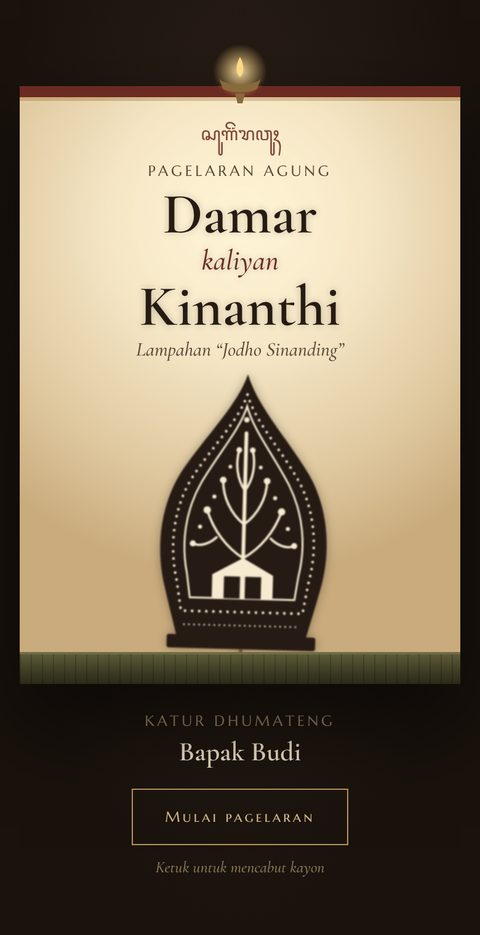
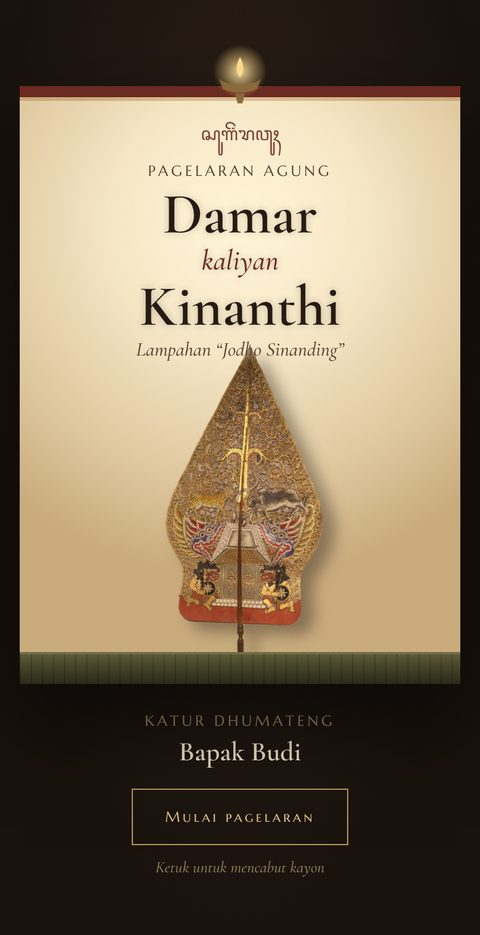
Pagelaran: foto wayang kulit asli sebagai gambar bawaan
Arjuna dan Sumbadra dari koleksi Tropenmuseum (CC BY-SA 3.0) serta
gunungan Jawa (CC0) dari Wikimedia Commons, latarnya dibuang menjadi
transparan. Baris kredit foto ditampilkan di bawah undangan; sumber dan
lisensi dicatat di docs/klasik/aset/KREDIT.md.

Claude-Session: https://claude.ai/code/session_012Jo5cw2anG96AVQ1DAKCxL

Changed region(s): [[0.3125, 0.3722, 0.7188, 0.7134]]

diff --git a/docs/klasik/11-wayang/index.html b/docs/klasik/11-wayang/index.html
@@ -32,8 +32,13 @@ window.UNDANGAN = {
     petunjuk: 'Ketuk untuk mencabut kayon',
   },
   sampul: { foto: '' },
-  // Gambar wayang asli (PNG berlatar transparan paling bagus). Kosong = memakai gambar bawaan.
-  wayang: { pria: '', putri: '', kayon: '' },
+  // Foto wayang asli (PNG/WebP berlatar transparan). Kosongkan untuk memakai gambar garis bawaan.
+  wayang: {
+    pria: '../aset/wayang-arjuna.webp',
+    putri: '../aset/wayang-sumbadra.webp',
+    kayon: '../aset/wayang-gunungan.webp',
+    kredit: 'Foto wayang Arjuna & Sumbadra: Tropenmuseum, CC BY-SA 3.0',
+  },
   narasi: {
     jawa: 'Kocap kacarita, ing tlatah Surakarta wonten satriya bagus Damar lan putri ayu Kinanthi. Sinawang saking tebih, katingal kados sekar kaliyan kumbang ingkang tansah manunggal.',
     terjemah: 'Alkisah, di tanah Surakarta hiduplah seorang ksatria bernama Damar dan seorang putri bernama Kinanthi. Dari kejauhan, keduanya bagai bunga dan kumbang yang tak terpisahkan.',
@@ -224,7 +229,7 @@ body { background: var(--panggung); color: var(--bayang); font: 500 17px/1.6 var
 .wayang .tk { fill: none; stroke: currentColor; stroke-linecap: round; stroke-linejoin: round; }
 .wayang .gagang { fill: none; stroke: #6b5038; stroke-width: 1.6; stroke-linecap: round; }
 .pemisah { display: grid; justify-items: center; margin: 0 auto 10px; }
-.pemisah .slot { width: 30px; height: 43px; }
+.pemisah .slot { width: 30px; height: 58px; }
 .pemisah svg { width: 100%; height: 100%; }
 /* Slot gambar wayang: gambar asli bila diisi, gambar bawaan bila kosong */
 .slot { position: relative; background: no-repeat center bottom / contain; }
@@ -252,8 +257,8 @@ html.is-opening .sampul { opacity: 0; visibility: hidden; }
 .nama-sampul { margin: 6px 0 2px; font: 600 clamp(40px, 12vw, 50px)/.95 var(--f-judul); color: var(--bayang); filter: blur(.3px); text-shadow: 0 0 6px rgba(38,27,20,.25); text-wrap: balance; }
 .nama-sampul i { display: block; font: italic 500 .5em/1.3 var(--f-judul); color: var(--marun); }
 .lakon { font: italic 500 16px/1.3 var(--f-judul); color: var(--bayang-2); text-shadow: 0 0 6px var(--kelir), 0 0 12px var(--kelir); }
-.kayon-sampul { position: relative; z-index: 1; align-self: end; justify-self: center; width: min(46%, 172px); margin-bottom: -6px; filter: blur(.6px) drop-shadow(0 0 4px rgba(38,27,20,.35)); transform-origin: 50% 100%; animation: goyang 5s ease-in-out infinite; }
-.kayon-sampul .slot { position: relative; aspect-ratio: 120 / 172; }
+.kayon-sampul { position: relative; z-index: 1; align-self: end; justify-self: center; width: min(36%, 140px); margin-bottom: -4px; filter: blur(.6px) drop-shadow(0 0 4px rgba(38,27,20,.35)); transform-origin: 50% 100%; animation: goyang 5s ease-in-out infinite; }
+.kayon-sampul .slot { position: relative; aspect-ratio: 120 / 237; }
 .kayon-sampul svg { display: block; width: 100%; height: 100%; }
 .kayon-sampul:has(.slot:not([data-empty])) { filter: none; }
 @keyframes goyang { 0%, 100% { transform: rotate(-1.6deg); } 50% { transform: rotate(1.6deg); } }
@@ -292,16 +297,17 @@ html:not(.mode-edit) .terang::before { animation: kedip 4.4s steps(1) infinite; 
 .jejer .nama-besar { margin: 8px 0 0; text-align: center; font: 600 clamp(44px, 13vw, 56px)/.95 var(--f-judul); text-wrap: balance; }
 .jejer .nama-besar i { display: block; margin: 4px 0; font: italic 500 26px/1 var(--f-judul); color: var(--marun); }
 .jejer .tgl-jawa { margin-top: 10px; text-align: center; color: var(--bayang-2); }
-.adegan { position: relative; display: grid; grid-template-columns: repeat(2, minmax(0, 1fr)); align-items: end; margin: 18px -22px 0; padding: 0 6%; height: 300px; }
-.adegan .wayang { position: relative; width: 100%; height: 300px; cursor: pointer; }
+.adegan { position: relative; margin: 18px -22px 0; height: 300px; }
+.adegan .wayang { position: absolute; bottom: 0; height: 100%; cursor: pointer; }
+.adegan .pria { left: -3%; width: 64%; }
+.adegan .putri { right: -3%; width: 66%; z-index: 1; }
 .adegan .wayang[data-empty] { filter: drop-shadow(0 0 3px rgba(38,27,20,.4)); }
 .adegan .wayang svg { width: 100%; height: 100%; overflow: visible; }
-.adegan .wayang:not([data-empty]) { background-size: auto 100%; transform-origin: 50% 100%; }
+.adegan .wayang:not([data-empty]) { transform-origin: 50% 100%; }
 html:not(.mode-edit) .adegan .wayang:not([data-empty]).in { animation: goyang 6s ease-in-out infinite; }
 html:not(.mode-edit) .adegan .wayang:not([data-empty]).in:last-child { animation-delay: -3s; }
 .adegan .wayang:not([data-empty]).sembah { animation: sembah-foto .9s ease-in-out !important; }
 @keyframes sembah-foto { 30% { transform: translateY(-10px) rotate(-3deg); } 60% { transform: translateY(-4px) rotate(2deg); } }
-.adegan .wayang:first-child { justify-self: end; }
 .adegan .goyang { transform-box: view-box; transform-origin: 56px 270px; }
 html:not(.mode-edit) .adegan .in .goyang { animation: goyang 6s ease-in-out infinite; }
 html:not(.mode-edit) .adegan .in:last-child .goyang { animation-delay: -3s; }
@@ -450,14 +456,15 @@ html.mode-edit .ketuk { display: none; }
 .penutup .judul { margin-top: 0; }
 .penutup .tanda { margin: 16px 0 0; font: 600 34px/1.1 var(--f-judul); }
 .penutup .keluarga { margin: 6px 0 0; color: var(--bayang-2); font-size: 15px; }
-.tancep { position: relative; height: 230px; margin: 26px -22px 0; display: grid; justify-items: center; align-items: end; overflow: hidden; }
-.tancep .kayon-tancep { position: relative; z-index: 1; width: 150px; aspect-ratio: 120 / 172; margin-bottom: 18px; transform-origin: 50% 100%; }
+.tancep { position: relative; height: 330px; margin: 26px -22px 0; display: grid; justify-items: center; align-items: end; overflow: hidden; }
+.tancep .kayon-tancep { position: relative; z-index: 1; width: 150px; aspect-ratio: 120 / 237; margin-bottom: 14px; transform-origin: 50% 100%; }
 .tancep .kayon-tancep[data-empty] { filter: blur(.5px) drop-shadow(0 0 4px rgba(38,27,20,.35)); }
 .tancep .kayon-tancep svg { width: 100%; height: 100%; }
 .rv .tancep .kayon-tancep[data-reveal]:not(.in) { transform: translateY(70%) rotateY(180deg); }
 .tancep .kayon-tancep[data-reveal] { transition: opacity .8s ease, transform 1.8s cubic-bezier(.2,.7,.2,1); }
 .tancep::after { content: ""; position: absolute; left: 0; right: 0; bottom: 0; height: 24px; z-index: 2; background: linear-gradient(#5c5a37, #3f3d24 55%, #2b2a18); border-top: 2px solid #6f6c45; }
-.kredit { padding: 16px 16px calc(100px + env(safe-area-inset-bottom, 0px)); text-align: center; font: 400 10.5px/1.5 var(--f-label); letter-spacing: .14em; color: rgba(216,189,138,.55); background: var(--panggung); }
+.kredit-foto { margin: 0; padding: 0 16px 6px; text-align: center; font: italic 500 12px/1.4 var(--f-judul); color: rgba(216,189,138,.45); background: var(--panggung); }
+.kredit { padding: 10px 16px calc(100px + env(safe-area-inset-bottom, 0px)); text-align: center; font: 400 10.5px/1.5 var(--f-label); letter-spacing: .14em; color: rgba(216,189,138,.55); background: var(--panggung); }
 
 /* ---------- dok: gamelan + babak ---------- */
 .dok { position: fixed; z-index: 40; left: 50%; bottom: calc(12px + env(safe-area-inset-bottom, 0px)); transform: translate(-50%, 160%); width: min(452px, calc(100% - 20px)); transition: transform .7s cubic-bezier(.2,.8,.2,1) .3s; }
@@ -792,6 +799,7 @@ html.musik-on .navigasi .tombol-musik .pencon:nth-of-type(3) { animation-delay: 
   <section class="bagian gelap" style="padding-top:22px;padding-bottom:6px">
     <p class="sesanti" data-k="penutup.sesanti"></p>
   </section>
+  <p class="kredit-foto" data-if="wayang.kredit" data-k="wayang.kredit"></p>
   <div class="kredit" data-k="kredit"></div>
 </main>
 

diff --git a/src/templates/11-wayang.html b/src/templates/11-wayang.html
@@ -23,8 +23,13 @@ window.UNDANGAN = {
     petunjuk: 'Ketuk untuk mencabut kayon',
   },
   sampul: { foto: '' },
-  // Gambar wayang asli (PNG berlatar transparan paling bagus). Kosong = memakai gambar bawaan.
-  wayang: { pria: '', putri: '', kayon: '' },
+  // Foto wayang asli (PNG/WebP berlatar transparan). Kosongkan untuk memakai gambar garis bawaan.
+  wayang: {
+    pria: '../aset/wayang-arjuna.webp',
+    putri: '../aset/wayang-sumbadra.webp',
+    kayon: '../aset/wayang-gunungan.webp',
+    kredit: 'Foto wayang Arjuna & Sumbadra: Tropenmuseum, CC BY-SA 3.0',
+  },
   narasi: {
     jawa: 'Kocap kacarita, ing tlatah Surakarta wonten satriya bagus Damar lan putri ayu Kinanthi. Sinawang saking tebih, katingal kados sekar kaliyan kumbang ingkang tansah manunggal.',
     terjemah: 'Alkisah, di tanah Surakarta hiduplah seorang ksatria bernama Damar dan seorang putri bernama Kinanthi. Dari kejauhan, keduanya bagai bunga dan kumbang yang tak terpisahkan.',
@@ -143,7 +148,7 @@ body { background: var(--panggung); color: var(--bayang); font: 500 17px/1.6 var
 .wayang .tk { fill: none; stroke: currentColor; stroke-linecap: round; stroke-linejoin: round; }
 .wayang .gagang { fill: none; stroke: #6b5038; stroke-width: 1.6; stroke-linecap: round; }
 .pemisah { display: grid; justify-items: center; margin: 0 auto 10px; }
-.pemisah .slot { width: 30px; height: 43px; }
+.pemisah .slot { width: 30px; height: 58px; }
 .pemisah svg { width: 100%; height: 100%; }
 /* Slot gambar wayang: gambar asli bila diisi, gambar bawaan bila kosong */
 .slot { position: relative; background: no-repeat center bottom / contain; }
@@ -171,8 +176,8 @@ html.is-opening .sampul { opacity: 0; visibility: hidden; }
 .nama-sampul { margin: 6px 0 2px; font: 600 clamp(40px, 12vw, 50px)/.95 var(--f-judul); color: var(--bayang); filter: blur(.3px); text-shadow: 0 0 6px rgba(38,27,20,.25); text-wrap: balance; }
 .nama-sampul i { display: block; font: italic 500 .5em/1.3 var(--f-judul); color: var(--marun); }
 .lakon { font: italic 500 16px/1.3 var(--f-judul); color: var(--bayang-2); text-shadow: 0 0 6px var(--kelir), 0 0 12px var(--kelir); }
-.kayon-sampul { position: relative; z-index: 1; align-self: end; justify-self: center; width: min(46%, 172px); margin-bottom: -6px; filter: blur(.6px) drop-shadow(0 0 4px rgba(38,27,20,.35)); transform-origin: 50% 100%; animation: goyang 5s ease-in-out infinite; }
-.kayon-sampul .slot { position: relative; aspect-ratio: 120 / 172; }
+.kayon-sampul { position: relative; z-index: 1; align-self: end; justify-self: center; width: min(36%, 140px); margin-bottom: -4px; filter: blur(.6px) drop-shadow(0 0 4px rgba(38,27,20,.35)); transform-origin: 50% 100%; animation: goyang 5s ease-in-out infinite; }
+.kayon-sampul .slot { position: relative; aspect-ratio: 120 / 237; }
 .kayon-sampul svg { display: block; width: 100%; height: 100%; }
 .kayon-sampul:has(.slot:not([data-empty])) { filter: none; }
 @keyframes goyang { 0%, 100% { transform: rotate(-1.6deg); } 50% { transform: rotate(1.6deg); } }
@@ -211,16 +216,17 @@ html:not(.mode-edit) .terang::before { animation: kedip 4.4s steps(1) infinite; 
 .jejer .nama-besar { margin: 8px 0 0; text-align: center; font: 600 clamp(44px, 13vw, 56px)/.95 var(--f-judul); text-wrap: balance; }
 .jejer .nama-besar i { display: block; margin: 4px 0; font: italic 500 26px/1 var(--f-judul); color: var(--marun); }
 .jejer .tgl-jawa { margin-top: 10px; text-align: center; color: var(--bayang-2); }
-.adegan { position: relative; display: grid; grid-template-columns: repeat(2, minmax(0, 1fr)); align-items: end; margin: 18px -22px 0; padding: 0 6%; height: 300px; }
-.adegan .wayang { position: relative; width: 100%; height: 300px; cursor: pointer; }
+.adegan { position: relative; margin: 18px -22px 0; height: 300px; }
+.adegan .wayang { position: absolute; bottom: 0; height: 100%; cursor: pointer; }
+.adegan .pria { left: -3%; width: 64%; }
+.adegan .putri { right: -3%; width: 66%; z-index: 1; }
 .adegan .wayang[data-empty] { filter: drop-shadow(0 0 3px rgba(38,27,20,.4)); }
 .adegan .wayang svg { width: 100%; height: 100%; overflow: visible; }
-.adegan .wayang:not([data-empty]) { background-size: auto 100%; transform-origin: 50% 100%; }
+.adegan .wayang:not([data-empty]) { transform-origin: 50% 100%; }
 html:not(.mode-edit) .adegan .wayang:not([data-empty]).in { animation: goyang 6s ease-in-out infinite; }
 html:not(.mode-edit) .adegan .wayang:not([data-empty]).in:last-child { animation-delay: -3s; }
 .adegan .wayang:not([data-empty]).sembah { animation: sembah-foto .9s ease-in-out !important; }
 @keyframes sembah-foto { 30% { transform: translateY(-10px) rotate(-3deg); } 60% { transform: translateY(-4px) rotate(2deg); } }
-.adegan .wayang:first-child { justify-self: end; }
 .adegan .goyang { transform-box: view-box; transform-origin: 56px 270px; }
 html:not(.mode-edit) .adegan .in .goyang { animation: goyang 6s ease-in-out infinite; }
 html:not(.mode-edit) .adegan .in:last-child .goyang { animation-delay: -3s; }
@@ -369,14 +375,15 @@ html.mode-edit .ketuk { display: none; }
 .penutup .judul { margin-top: 0; }
 .penutup .tanda { margin: 16px 0 0; font: 600 34px/1.1 var(--f-judul); }
 .penutup .keluarga { margin: 6px 0 0; color: var(--bayang-2); font-size: 15px; }
-.tancep { position: relative; height: 230px; margin: 26px -22px 0; display: grid; justify-items: center; align-items: end; overflow: hidden; }
-.tancep .kayon-tancep { position: relative; z-index: 1; width: 150px; aspect-ratio: 120 / 172; margin-bottom: 18px; transform-origin: 50% 100%; }
+.tancep { position: relative; height: 330px; margin: 26px -22px 0; display: grid; justify-items: center; align-items: end; overflow: hidden; }
+.tancep .kayon-tancep { position: relative; z-index: 1; width: 150px; aspect-ratio: 120 / 237; margin-bottom: 14px; transform-origin: 50% 100%; }
 .tancep .kayon-tancep[data-empty] { filter: blur(.5px) drop-shadow(0 0 4px rgba(38,27,20,.35)); }
 .tancep .kayon-tancep svg { width: 100%; height: 100%; }
 .rv .tancep .kayon-tancep[data-reveal]:not(.in) { transform: translateY(70%) rotateY(180deg); }
 .tancep .kayon-tancep[data-reveal] { transition: opacity .8s ease, transform 1.8s cubic-bezier(.2,.7,.2,1); }
 .tancep::after { content: ""; position: absolute; left: 0; right: 0; bottom: 0; height: 24px; z-index: 2; background: linear-gradient(#5c5a37, #3f3d24 55%, #2b2a18); border-top: 2px solid #6f6c45; }
-.kredit { padding: 16px 16px calc(100px + env(safe-area-inset-bottom, 0px)); text-align: center; font: 400 10.5px/1.5 var(--f-label); letter-spacing: .14em; color: rgba(216,189,138,.55); background: var(--panggung); }
+.kredit-foto { margin: 0; padding: 0 16px 6px; text-align: center; font: italic 500 12px/1.4 var(--f-judul); color: rgba(216,189,138,.45); background: var(--panggung); }
+.kredit { padding: 10px 16px calc(100px + env(safe-area-inset-bottom, 0px)); text-align: center; font: 400 10.5px/1.5 var(--f-label); letter-spacing: .14em; color: rgba(216,189,138,.55); background: var(--panggung); }
 
 /* ---------- dok: gamelan + babak ---------- */
 .dok { position: fixed; z-index: 40; left: 50%; bottom: calc(12px + env(safe-area-inset-bottom, 0px)); transform: translate(-50%, 160%); width: min(452px, calc(100% - 20px)); transition: transform .7s cubic-bezier(.2,.8,.2,1) .3s; }
@@ -708,6 +715,7 @@ html.musik-on .navigasi .tombol-musik .pencon:nth-of-type(3) { animation-delay: 
   <section class="bagian gelap" style="padding-top:22px;padding-bottom:6px">
     <p class="sesanti" data-k="penutup.sesanti"></p>
   </section>
+  <p class="kredit-foto" data-if="wayang.kredit" data-k="wayang.kredit"></p>
   <div class="kredit" data-k="kredit"></div>
 </main>
 

diff --git a/dist/11-wayang/index.html b/dist/11-wayang/index.html
@@ -141,7 +141,7 @@ body { background: var(--panggung); color: var(--bayang); font: 500 17px/1.6 var
 .wayang .tk { fill: none; stroke: currentColor; stroke-linecap: round; stroke-linejoin: round; }
 .wayang .gagang { fill: none; stroke: #6b5038; stroke-width: 1.6; stroke-linecap: round; }
 .pemisah { display: grid; justify-items: center; margin: 0 auto 10px; }
-.pemisah .slot { width: 30px; height: 43px; }
+.pemisah .slot { width: 30px; height: 58px; }
 .pemisah svg { width: 100%; height: 100%; }
 /* Slot gambar wayang: gambar asli bila diisi, gambar bawaan bila kosong */
 .slot { position: relative; background: no-repeat center bottom / contain; }
@@ -169,8 +169,8 @@ html.is-opening .sampul { opacity: 0; visibility: hidden; }
 .nama-sampul { margin: 6px 0 2px; font: 600 clamp(40px, 12vw, 50px)/.95 var(--f-judul); color: var(--bayang); filter: blur(.3px); text-shadow: 0 0 6px rgba(38,27,20,.25); text-wrap: balance; }
 .nama-sampul i { display: block; font: italic 500 .5em/1.3 var(--f-judul); color: var(--marun); }
 .lakon { font: italic 500 16px/1.3 var(--f-judul); color: var(--bayang-2); text-shadow: 0 0 6px var(--kelir), 0 0 12px var(--kelir); }
-.kayon-sampul { position: relative; z-index: 1; align-self: end; justify-self: center; width: min(46%, 172px); margin-bottom: -6px; filter: blur(.6px) drop-shadow(0 0 4px rgba(38,27,20,.35)); transform-origin: 50% 100%; animation: goyang 5s ease-in-out infinite; }
-.kayon-sampul .slot { position: relative; aspect-ratio: 120 / 172; }
+.kayon-sampul { position: relative; z-index: 1; align-self: end; justify-self: center; width: min(36%, 140px); margin-bottom: -4px; filter: blur(.6px) drop-shadow(0 0 4px rgba(38,27,20,.35)); transform-origin: 50% 100%; animation: goyang 5s ease-in-out infinite; }
+.kayon-sampul .slot { position: relative; aspect-ratio: 120 / 237; }
 .kayon-sampul svg { display: block; width: 100%; height: 100%; }
 .kayon-sampul:has(.slot:not([data-empty])) { filter: none; }
 @keyframes goyang { 0%, 100% { transform: rotate(-1.6deg); } 50% { transform: rotate(1.6deg); } }
@@ -209,16 +209,17 @@ html:not(.mode-edit) .terang::before { animation: kedip 4.4s steps(1) infinite; 
 .jejer .nama-besar { margin: 8px 0 0; text-align: center; font: 600 clamp(44px, 13vw, 56px)/.95 var(--f-judul); text-wrap: balance; }
 .jejer .nama-besar i { display: block; margin: 4px 0; font: italic 500 26px/1 var(--f-judul); color: var(--marun); }
 .jejer .tgl-jawa { margin-top: 10px; text-align: center; color: var(--bayang-2); }
-.adegan { position: relative; display: grid; grid-template-columns: repeat(2, minmax(0, 1fr)); align-items: end; margin: 18px -22px 0; padding: 0 6%; height: 300px; }
-.adegan .wayang { position: relative; width: 100%; height: 300px; cursor: pointer; }
+.adegan { position: relative; margin: 18px -22px 0; height: 300px; }
+.adegan .wayang { position: absolute; bottom: 0; height: 100%; cursor: pointer; }
+.adegan .pria { left: -3%; width: 64%; }
+.adegan .putri { right: -3%; width: 66%; z-index: 1; }
 .adegan .wayang[data-empty] { filter: drop-shadow(0 0 3px rgba(38,27,20,.4)); }
 .adegan .wayang svg { width: 100%; height: 100%; overflow: visible; }
-.adegan .wayang:not([data-empty]) { background-size: auto 100%; transform-origin: 50% 100%; }
+.adegan .wayang:not([data-empty]) { transform-origin: 50% 100%; }
 html:not(.mode-edit) .adegan .wayang:not([data-empty]).in { animation: goyang 6s ease-in-out infinite; }
 html:not(.mode-edit) .adegan .wayang:not([data-empty]).in:last-child { animation-delay: -3s; }
 .adegan .wayang:not([data-empty]).sembah { animation: sembah-foto .9s ease-in-out !important; }
 @keyframes sembah-foto { 30% { transform: translateY(-10px) rotate(-3deg); } 60% { transform: translateY(-4px) rotate(2deg); } }
-.adegan .wayang:first-child { justify-self: end; }
 .adegan .goyang { transform-box: view-box; transform-origin: 56px 270px; }
 html:not(.mode-edit) .adegan .in .goyang { animation: goyang 6s ease-in-out infinite; }
 html:not(.mode-edit) .adegan .in:last-child .goyang { animation-delay: -3s; }
@@ -367,14 +368,15 @@ html.mode-edit .ketuk { display: none; }
 .penutup .judul { margin-top: 0; }
 .penutup .tanda { margin: 16px 0 0; font: 600 34px/1.1 var(--f-judul); }
 .penutup .keluarga { margin: 6px 0 0; color: var(--bayang-2); font-size: 15px; }
-.tancep { position: relative; height: 230px; margin: 26px -22px 0; display: grid; justify-items: center; align-items: end; overflow: hidden; }
-.tancep .kayon-tancep { position: relative; z-index: 1; width: 150px; aspect-ratio: 120 / 172; margin-bottom: 18px; transform-origin: 50% 100%; }
+.tancep { position: relative; height: 330px; margin: 26px -22px 0; display: grid; justify-items: center; align-items: end; overflow: hidden; }
+.tancep .kayon-tancep { position: relative; z-index: 1; width: 150px; aspect-ratio: 120 / 237; margin-bottom: 14px; transform-origin: 50% 100%; }
 .tancep .kayon-tancep[data-empty] { filter: blur(.5px) drop-shadow(0 0 4px rgba(38,27,20,.35)); }
 .tancep .kayon-tancep svg { width: 100%; height: 100%; }
 .rv .tancep .kayon-tancep[data-reveal]:not(.in) { transform: translateY(70%) rotateY(180deg); }
 .tancep .kayon-tancep[data-reveal] { transition: opacity .8s ease, transform 1.8s cubic-bezier(.2,.7,.2,1); }
 .tancep::after { content: ""; position: absolute; left: 0; right: 0; bottom: 0; height: 24px; z-index: 2; background: linear-gradient(#5c5a37, #3f3d24 55%, #2b2a18); border-top: 2px solid #6f6c45; }
-.kredit { padding: 16px 16px calc(100px + env(safe-area-inset-bottom, 0px)); text-align: center; font: 400 10.5px/1.5 var(--f-label); letter-spacing: .14em; color: rgba(216,189,138,.55); background: var(--panggung); }
+.kredit-foto { margin: 0; padding: 0 16px 6px; text-align: center; font: italic 500 12px/1.4 var(--f-judul); color: rgba(216,189,138,.45); background: var(--panggung); }
+.kredit { padding: 10px 16px calc(100px + env(safe-area-inset-bottom, 0px)); text-align: center; font: 400 10.5px/1.5 var(--f-label); letter-spacing: .14em; color: rgba(216,189,138,.55); background: var(--panggung); }
 
 /* ---------- dok: gamelan + babak ---------- */
 .dok { position: fixed; z-index: 40; left: 50%; bottom: calc(12px + env(safe-area-inset-bottom, 0px)); transform: translate(-50%, 160%); width: min(452px, calc(100% - 20px)); transition: transform .7s cubic-bezier(.2,.8,.2,1) .3s; }
@@ -709,6 +711,7 @@ html.musik-on .navigasi .tombol-musik .pencon:nth-of-type(3) { animation-delay: 
   <section class="bagian gelap" style="padding-top:22px;padding-bottom:6px">
     <p class="sesanti" data-k="penutup.sesanti"></p>
   </section>
+  <p class="kredit-foto" data-if="wayang.kredit" data-k="wayang.kredit"></p>
   <div class="kredit" data-k="kredit"></div>
 </main>
 

diff --git a/dist/11-wayang/data.js b/dist/11-wayang/data.js
@@ -20,9 +20,10 @@ window.UNDANGAN = {
     "foto": ""
   },
   "wayang": {
-    "pria": "",
-    "putri": "",
-    "kayon": ""
+    "pria": "../aset/wayang-arjuna.webp",
+    "putri": "../aset/wayang-sumbadra.webp",
+    "kayon": "../aset/wayang-gunungan.webp",
+    "kredit": "Foto wayang Arjuna & Sumbadra: Tropenmuseum, CC BY-SA 3.0"
   },
   "narasi": {
     "jawa": "Kocap kacarita, ing tlatah Surakarta wonten satriya bagus Damar lan putri ayu Kinanthi. Sinawang saking tebih, katingal kados sekar kaliyan kumbang ingkang tansah manunggal.",

diff --git a/docs/klasik/aset/KREDIT.md b/docs/klasik/aset/KREDIT.md
@@ -1,0 +1,14 @@
+# Sumber gambar wayang
+
+Latar setiap foto sudah dibuang (dipotong menjadi transparan). Hasil potongan
+mengikuti lisensi foto aslinya.
+
+| Berkas | Sumber | Lisensi |
+| --- | --- | --- |
+| `wayang-arjuna.webp` (dibalik kiri–kanan) | "COLLECTIE TROPENMUSEUM Wajangpop voorstellende Arjuna TMnr 3582-32", Tropenmuseum (Nationaal Museum van Wereldculturen), via Wikimedia Commons | CC BY-SA 3.0 |
+| `wayang-sumbadra.webp` | "COLLECTIE TROPENMUSEUM Wajangpop voorstellende Sumbadra TMnr 3582-36", Tropenmuseum (Nationaal Museum van Wereldculturen), via Wikimedia Commons | CC BY-SA 3.0 |
+| `wayang-gunungan.webp` | "Wayang Kulit; Kayonan (tree of life), Arjuna and Sumbadra from Java", oleh Hiart, via Wikimedia Commons | CC0 (domain publik) |
+
+CC BY-SA 3.0 mewajibkan pencantuman kredit. Karena itu template Pagelaran
+menampilkan baris kredit (`wayang.kredit`) di bagian bawah undangan. Hapus
+baris itu hanya bila foto wayang sudah diganti dengan foto milik sendiri.
